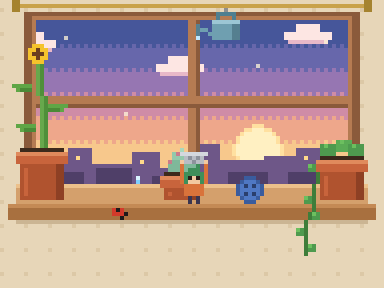
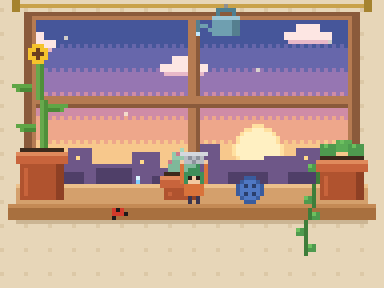
Update game metadata and assets for "Don't Step on a Crack" and "Thimbleful". Changed descriptions for clarity, updated image links, and replaced outdated assets. Removed obsolete files and added new images for better representation.

diff --git a/site/index.html b/site/index.html
@@ -11,19 +11,19 @@
 <meta property="og:title" content="JonniePeed Games">
 <meta property="og:description" content="Games and whatever comes next, from JonniePeed Games.">
 <meta property="og:url" content="https://jonniesparkles.github.io/jonniepeed-games/">
-<meta property="og:image" content="https://jonniesparkles.github.io/jonniepeed-games/assets/og/index.png?v=8279a555b2">
+<meta property="og:image" content="https://jonniesparkles.github.io/jonniepeed-games/assets/og/index.png?v=9568ebdc82">
 <meta property="og:image:width" content="1200">
 <meta property="og:image:height" content="630">
 <meta property="og:image:alt" content="The JonniePeed Games logo: a stick figure sending a rainbow arc into colorful paint-splash letters">
 <meta name="twitter:card" content="summary_large_image">
 <meta name="twitter:title" content="JonniePeed Games">
 <meta name="twitter:description" content="Games and whatever comes next, from JonniePeed Games.">
-<meta name="twitter:image" content="https://jonniesparkles.github.io/jonniepeed-games/assets/og/index.png?v=8279a555b2">
+<meta name="twitter:image" content="https://jonniesparkles.github.io/jonniepeed-games/assets/og/index.png?v=9568ebdc82">
 <meta name="twitter:image:alt" content="The JonniePeed Games logo: a stick figure sending a rainbow arc into colorful paint-splash letters">
 <link rel="icon" href="favicon.ico?v=443c0101ac" sizes="any">
 <link rel="icon" type="image/png" href="assets/favicon-32.png?v=569f3f592d">
 <link rel="apple-touch-icon" href="assets/apple-touch-icon.png?v=c9eec24c41">
-<link rel="stylesheet" href="assets/fonts/fonts.css?v=1348facafd">
+<link rel="stylesheet" href="assets/fonts/fonts.css?v=3d3172a531">
 <style>
 /* Layout: logo hero, then a shelf of game cards (2-3 across on desktop, 1 on phones), a pixel easter egg on the shelf floor, then a small footer */
 :root{
@@ -83,16 +83,16 @@ footer img{width:20px;height:22px;image-rendering:pixelated}
   <h2>Games</h2>
   <div class="grid">
     <a class="card pink" href="dont-step-on-a-crack/index.html">
-      <div class="thumb"><img src="assets/thumb-dont-step-on-a-crack.webp?v=d0d4d9d45e" width="768" height="576" alt="Looking down at sneakers on a chalked sidewalk, with a Mom Cam showing Mom folded in half in her kitchen"></div>
+      <div class="thumb"><img src="assets/thumb-dont-step-on-a-crack.webp?v=c1c08a473a" width="768" height="576" alt="Looking down at sneakers on a chalked sidewalk, with a Mom Cam showing Mom folded in half in her kitchen"></div>
       <div class="info">
         <span class="tag">Game · phone or desktop</span>
         <h3>Don't Step on a Crack</h3>
-        <p>Walk home without landing on a crack. Every one you hit folds Mom up a little more, and she'll be sure to make you feel bad about it.</p>
+        <p>Step on a crack, break your mother's back. Every one you step on folds Mom up a little more, and she'll be sure to make you feel bad about it.</p>
         <span class="go">Play</span>
       </div>
     </a>
     <a class="card" href="thimbleful/index.html">
-      <div class="thumb"><img class="px" src="assets/thumb-thimbleful.png?v=ef5104da59" width="384" height="288" alt="Pixel windowsill with a tiny explorer holding a thimble under a leaking watering can"></div>
+      <div class="thumb"><img class="px" src="assets/thumb-thimbleful.png?v=d94b335bc5" width="384" height="288" alt="Pixel windowsill with a tiny explorer holding a thimble under a leaking watering can"></div>
       <div class="info">
         <span class="tag">Game · phone or desktop</span>
         <h3>Thimbleful</h3>
@@ -118,6 +118,6 @@ footer img{width:20px;height:22px;image-rendering:pixelated}
     <span>© 2026 JonniePeed Games</span>
   </div>
 </footer>
-<script src="assets/ident.js?v=8ded0e714d"></script>
+<script src="assets/ident.js?v=b349e3ff1c"></script>
 </body>
 </html>

diff --git a/site/dont-step-on-a-crack/index.html b/site/dont-step-on-a-crack/index.html
@@ -4,26 +4,26 @@
 <meta charset="utf-8">
 <meta name="viewport" content="width=device-width,initial-scale=1,viewport-fit=cover">
 <title>Don't Step on a Crack · JonniePeed Games</title>
-<meta name="description" content="Walk home without stepping on a crack. Every one you land on folds Mom up a little more, live on the Mom Cam. A game for phone or desktop.">
+<meta name="description" content="Step on a crack, break your mother's back. Every one you step on folds Mom up a little more, and she'll be sure to make you feel bad about it.">
 <meta name="theme-color" content="#1d2018">
 <meta property="og:type" content="website">
 <meta property="og:site_name" content="JonniePeed Games">
 <meta property="og:title" content="Don't Step on a Crack · JonniePeed Games">
-<meta property="og:description" content="Walk home without stepping on a crack. Every one you land on folds Mom up a little more, live on the Mom Cam. A game for phone or desktop.">
+<meta property="og:description" content="Step on a crack, break your mother's back. Every one you step on folds Mom up a little more, and she'll be sure to make you feel bad about it.">
 <meta property="og:url" content="https://jonniesparkles.github.io/jonniepeed-games/dont-step-on-a-crack/index.html">
-<meta property="og:image" content="https://jonniesparkles.github.io/jonniepeed-games/assets/og/dont-step-on-a-crack.png?v=6abe3e34e1">
+<meta property="og:image" content="https://jonniesparkles.github.io/jonniepeed-games/assets/og/dont-step-on-a-crack.png?v=2db2985a9f">
 <meta property="og:image:width" content="1200">
 <meta property="og:image:height" content="630">
 <meta property="og:image:alt" content="Looking down at your sneakers on a cracked sidewalk, with a security-camera view of Mom folded in half in her kitchen">
 <meta name="twitter:card" content="summary_large_image">
 <meta name="twitter:title" content="Don't Step on a Crack · JonniePeed Games">
-<meta name="twitter:description" content="Walk home without stepping on a crack. Every one you land on folds Mom up a little more, live on the Mom Cam. A game for phone or desktop.">
-<meta name="twitter:image" content="https://jonniesparkles.github.io/jonniepeed-games/assets/og/dont-step-on-a-crack.png?v=6abe3e34e1">
+<meta name="twitter:description" content="Step on a crack, break your mother's back. Every one you step on folds Mom up a little more, and she'll be sure to make you feel bad about it.">
+<meta name="twitter:image" content="https://jonniesparkles.github.io/jonniepeed-games/assets/og/dont-step-on-a-crack.png?v=2db2985a9f">
 <meta name="twitter:image:alt" content="Looking down at your sneakers on a cracked sidewalk, with a security-camera view of Mom folded in half in her kitchen">
 <link rel="icon" href="../favicon.ico?v=443c0101ac" sizes="any">
 <link rel="icon" type="image/png" href="../assets/favicon-32.png?v=569f3f592d">
 <link rel="apple-touch-icon" href="../assets/apple-touch-icon.png?v=c9eec24c41">
-<link rel="stylesheet" href="../assets/fonts/fonts.css?v=1348facafd">
+<link rel="stylesheet" href="../assets/fonts/fonts.css?v=3d3172a531">
 <style>
 /* Layout: one full-bleed first-person view down at the sidewalk (a tilted canvas). Portrait: HUD strip across the top.
    Landscape and desktop: HUD in the grass to the left. Title, pause and the end call are overlays on the live scene. */
@@ -369,8 +369,8 @@ html,body{height:100%;margin:0;overflow:hidden;background:var(--ground);color:va
     </div>
   </div>
 </div>
-<script src="audio.js?v=5d7830a151"></script>
-<script src="../assets/leaderboard.js?v=aa140ba9fe"></script>
-<script src="game.js?v=f92bca5fa7"></script>
+<script src="audio.js?v=6f55afc767"></script>
+<script src="../assets/leaderboard.js?v=6b0d9d0478"></script>
+<script src="game.js?v=0a45f2fd6f"></script>
 </body>
 </html>

diff --git a/site/thimbleful/index.html b/site/thimbleful/index.html
@@ -11,19 +11,19 @@
 <meta property="og:title" content="Thimbleful · JonniePeed Games">
 <meta property="og:description" content="Plant a seed on a sunset windowsill and catch the drips from a leaking watering can to grow it. A tiny pixel game for phone or desktop.">
 <meta property="og:url" content="https://jonniesparkles.github.io/jonniepeed-games/thimbleful/index.html">
-<meta property="og:image" content="https://jonniesparkles.github.io/jonniepeed-games/assets/og/thimbleful.png?v=bdf29a21b6">
+<meta property="og:image" content="https://jonniesparkles.github.io/jonniepeed-games/assets/og/thimbleful.png?v=ec6654db6e">
 <meta property="og:image:width" content="1200">
 <meta property="og:image:height" content="630">
 <meta property="og:image:alt" content="Pixel art of a tiny explorer on a windowsill holding up a thimble to catch drips from a watering can">
 <meta name="twitter:card" content="summary_large_image">
 <meta name="twitter:title" content="Thimbleful · JonniePeed Games">
 <meta name="twitter:description" content="Plant a seed on a sunset windowsill and catch the drips from a leaking watering can to grow it. A tiny pixel game for phone or desktop.">
-<meta name="twitter:image" content="https://jonniesparkles.github.io/jonniepeed-games/assets/og/thimbleful.png?v=bdf29a21b6">
+<meta name="twitter:image" content="https://jonniesparkles.github.io/jonniepeed-games/assets/og/thimbleful.png?v=ec6654db6e">
 <meta name="twitter:image:alt" content="Pixel art of a tiny explorer on a windowsill holding up a thimble to catch drips from a watering can">
 <link rel="icon" href="../favicon.ico?v=443c0101ac" sizes="any">
 <link rel="icon" type="image/png" href="../assets/favicon-32.png?v=569f3f592d">
 <link rel="apple-touch-icon" href="../assets/apple-touch-icon.png?v=c9eec24c41">
-<link rel="stylesheet" href="../assets/fonts/fonts.css?v=1348facafd">
+<link rel="stylesheet" href="../assets/fonts/fonts.css?v=3d3172a531">
 <style>
 *,*::before,*::after{box-sizing:border-box}
 [hidden]{display:none!important}
@@ -148,8 +148,8 @@ button:focus-visible{outline:2px solid var(--cream);outline-offset:3px}
   </section>
   <p class="hint" id="hint">Drag anywhere on the scene to move. On a keyboard, use the arrow keys, M to mute and F for full screen.</p>
 </main>
-<script src="audio.js?v=cd567a2e80"></script>
-<script src="../assets/leaderboard.js?v=aa140ba9fe"></script>
-<script src="game.js?v=1efbacbc98"></script>
+<script src="audio.js?v=efbe24bef2"></script>
+<script src="../assets/leaderboard.js?v=6b0d9d0478"></script>
+<script src="game.js?v=412d2089e2"></script>
 </body>
 </html>
